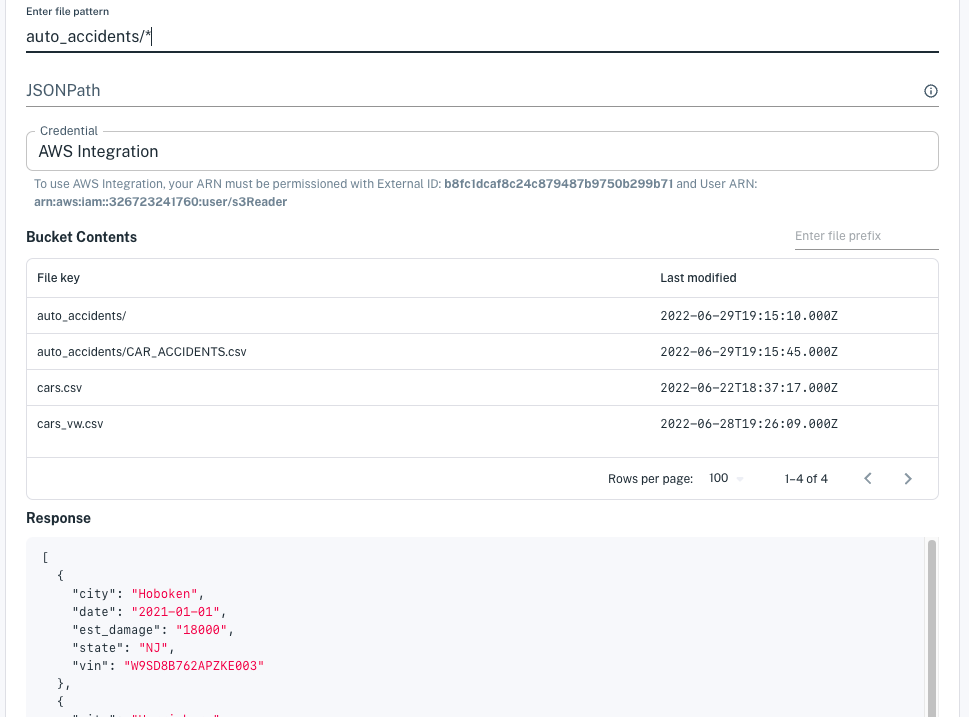
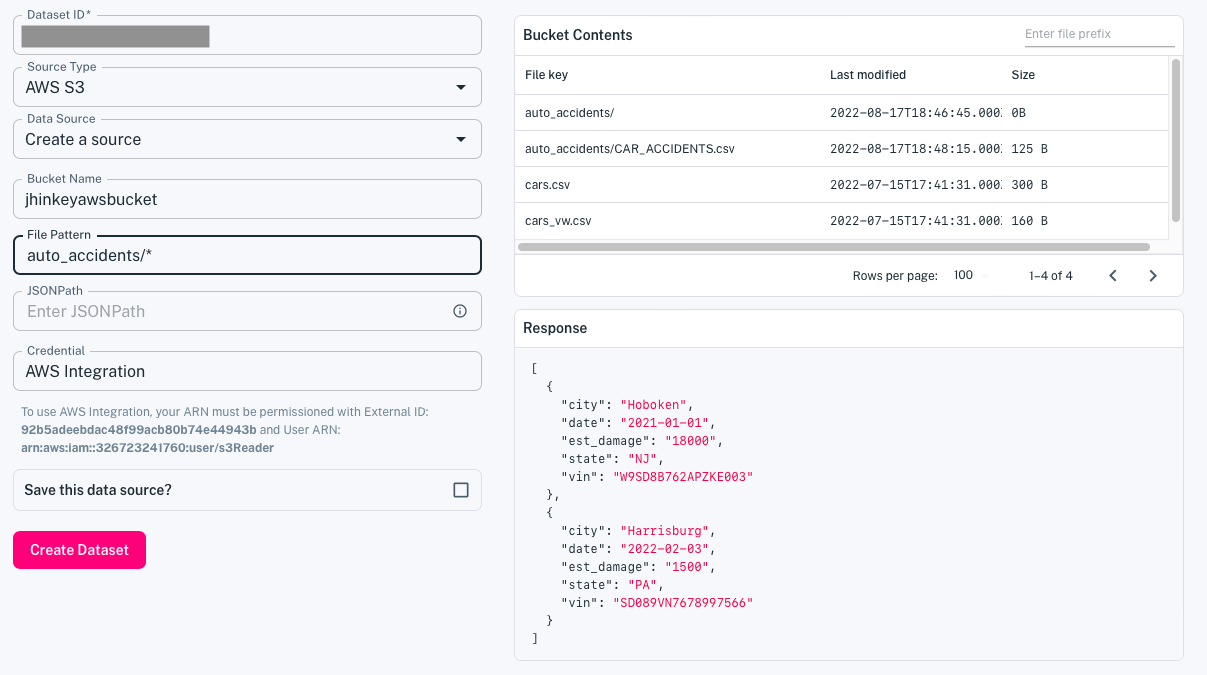
update "Loading data from AWS S3" to one step

diff --git a/source/migrating-and-importing-data/loading-data-from-aws-s3.md b/source/migrating-and-importing-data/loading-data-from-aws-s3.md
@@ -1,38 +1,58 @@
 # Loading Data from AWS S3
 
-In few steps, you can import data from CSV, JSON, or JSONL data files in your S3 buckets. Before creating a dataset that uses bucket files, you must configure credentials for accessing the bucket. Here are the credential types:
+In few steps, you can import data from a CSV, JSON, or JSONL data file in your S3 bucket.
 
-- **AWS Integration:** Grant Apperate's S3 user bucket read access. Learn how at [Accessing S3 via AWS Integration](./accessing-s3-via-storage-integration.md).
-- **Access Key:** Specify your bucket access key and secret access key. For details, see [Accessing S3 via Your Access Key](./accessing-s3-via-your-access-key.md).
-
-Here we'll create a dataset from an S3 bucket file.
-
-## Creating a Dataset with Data from an S3 Bucket
+## Creating a Dataset From an S3 Bucket File
 
 1. Click **Create a Dataset** at the top of the console or from the **Datasets** page. The **Create a Dataset** page appears.
 
     ![](./loading-data-from-aws-s3/create-a-dataset.png)
 
-1. In the **Use a new data source** section, choose **AWS S3** in the source type. The AWS S3 bucket fields appear.
+1. Enter an ID for your dataset.
 
-    ![](./loading-data-from-aws-s3/new-aws-data-source.png)
+1. For **Source Type**, select **AWS S3**.
 
-1. Select your credential for accessing the bucket.
+    ![](./loading-data-from-aws-s3/source-type-aws-s3.png)
 
-    ![](./loading-data-from-aws-s3/credential-dataset.png)
+    The AWS data source fields appear.
 
-    - If you want to use AWS Integration, you can select **AWS Ingtegration** to use your configuration or to configure it if you haven't configured it already. 
-    - If you want to use an access key credential, you can select an existing access key credential or create one.
+    ![](./loading-data-from-aws-s3/aws-data-source-fields.png)
 
-1. Enter your AWS bucket name. All of your bucket files (file keys) appear in the Bucket Contents list.
+1. For **Data Source**, select the bottom-most option **Create a source**.
 
-    ![](./loading-data-from-aws-s3/all-bucket-files.png)
+    ![](./loading-data-from-aws-s3/create-a-source-aws.png)
 
-1. Specify a file(s) to load data from by selecting a file key or entering a file pattern.      
+    The bucket-related fields appear.
+
+    ![](./loading-data-from-aws-s3/bucket-related-fields.png)
+
+1. There are various credential options.
+
+    If you haven't already created AWS Integration as a credential, the **Credential** field appears in red.
+
+    ![](./loading-data-from-aws-s3/no-aws-storage-integration.png)
+
+    If you want to configure AWS Integration, select **enter your AWS role ARN** link and then enter your AWS IAM Role ARN in the field.
+
+    ![](./loading-data-from-aws-s3/enter-aws-iam-role-arn.png)
+
+    > **Important:** Make sure to grant Apperate's S3 user access to your role by configuring the returned S3 User and External ID in your role. Ssee [Accessing S3 via AWS Integration](./accessing-s3-via-storage-integration.md) for details.
+
+    If you want to use an access key credential, you can select an existing one from the **Credential** selector or select the bottom-most option **Create a credential**.
+
+    ![](./loading-data-from-aws-s3/credential-a-credential.png)
+
+    > **Note:** For more information on configuring access to S3 buckets via access keys, see [Accessing S3 via Your Access Key](./accessing-s3-via-your-access-key.md).
+
+1. Enter your AWS bucket name. All of your bucket files (file keys) appear in the Bucket Contents panel on the right.
+
+    ![](./loading-data-from-aws-s3/bucket-contents.png)
+
+1. Specify a file to load data by selecting a file key or entering a file pattern.      
 
     - **Select a file key** - Select a file from the Bucket Contents list. The *Response* panel updates to reflect the selected file's content.
 
-        ![](./loading-data-from-aws-s3/select-file-key.png)
+        ![](./loading-data-from-aws-s3/select-a-file-key.png)
 
         > **Tip:** You can filter on files in a particular folder by entering a folder name in the *file prefix* field at the top-right of Bucket Contents.
 
@@ -48,17 +68,11 @@ Here we'll create a dataset from an S3 bucket file.
 
     > **See also** [Accessing Nested JSON Data](./accessing-nested-json-data.md) for guidance on specifying JSONPath for JSON file data.
 
-    When you're done specifying the data, click **Parse Data**. The schema editor appears.
+1. If you want to save the data source for future data ingestion, select the **Save this data source?** option.
 
-    ![](./loading-data-from-aws-s3/car-accidents-schema.png)
+    > **Note:** After creating the dataset, the data source will be saved with an auto-generated name. To find the data source, navigate to **Sources** and sort the list by **Last Updated**. The data source should be one most recently updated.
 
-1. In the schema editor, name your dataset, check the property types and indexes, and specify whether to opt in an indexed property to the metadata graph. 
-
-    > **Note:** the metadata graph opt-in, provides the opportunity to map a property to IEX Cloud's metadata data graph of [financial identifiers](../reference/financial-identifiers.md). This allows you to enrich your dataset by joining it to IEX Cloud core equities data or any other dataset that is also opted in. Furthermore, you can ingest data into and query for data in this dataset using IEX Cloud's supported financial identifiers. See [Normalization](../managing-your-data/defining-schemas/normalization.md) for examples.
-
-    When you're happy with the schema, click **Create dataset now**.
-
-    Apperate creates the dataset, loads the file's data into the dataset, and shows the dataset's **Overview** page.
+1. When you're done specifying the data, click **Create Dataset**. Apperate creates the dataset, loads the file data into the dataset, and shows the dataset's **Overview** page.
 
     ![](./loading-data-from-aws-s3/car-accidents-dataset-overview.png)
 
@@ -70,7 +84,7 @@ Here we'll create a dataset from an S3 bucket file.
     [{"city":"Harrisburg","date":"2022-02-03","est_damage":1500,"state":"PA","vin":"SD089VN7678997566"}]
     ```
 
-Congratulations! You loaded data from your AWS S3 bucket into a dataset and that's ready to deliver that data to your apps.
+Congratulations! You loaded data from your AWS S3 bucket into a dataset and it is ready to deliver that data to apps.
 
 ## What's Next
 
